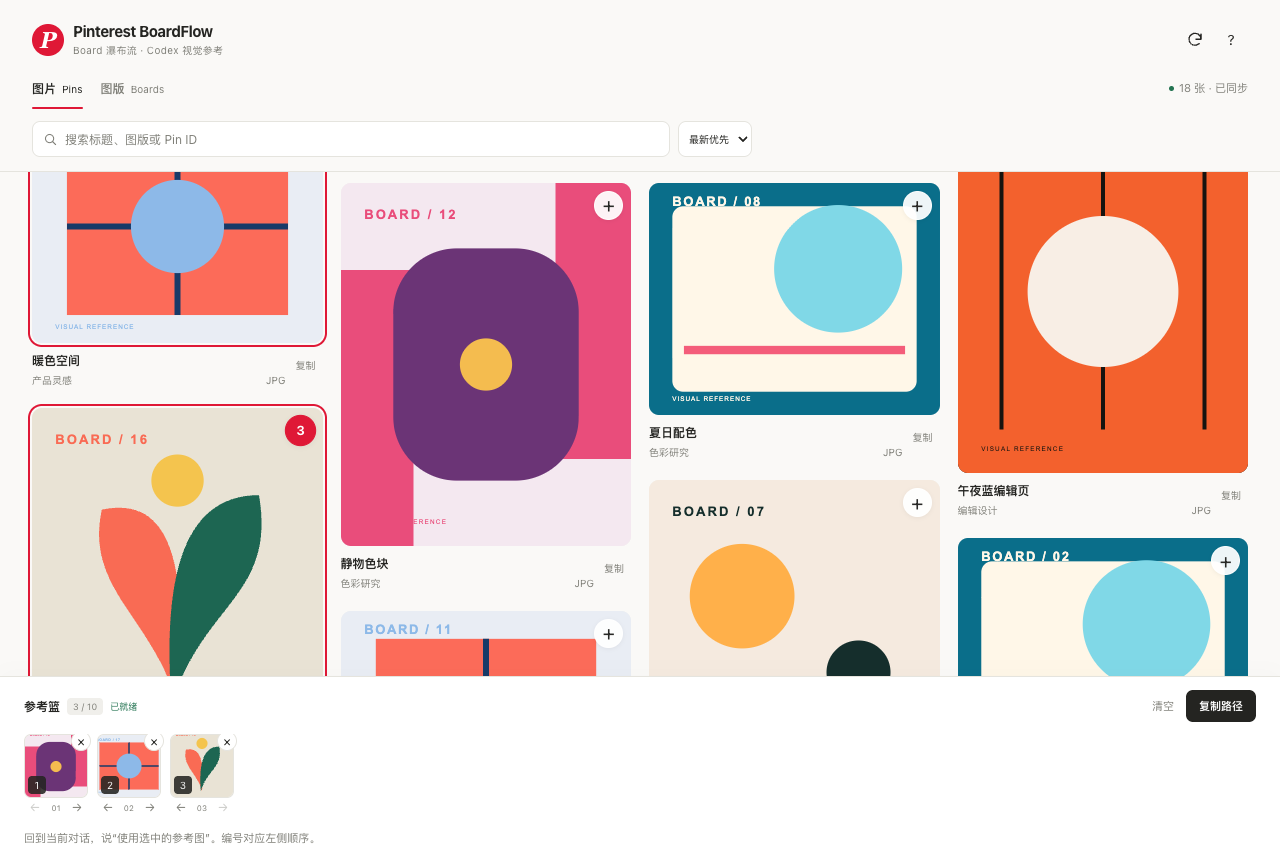
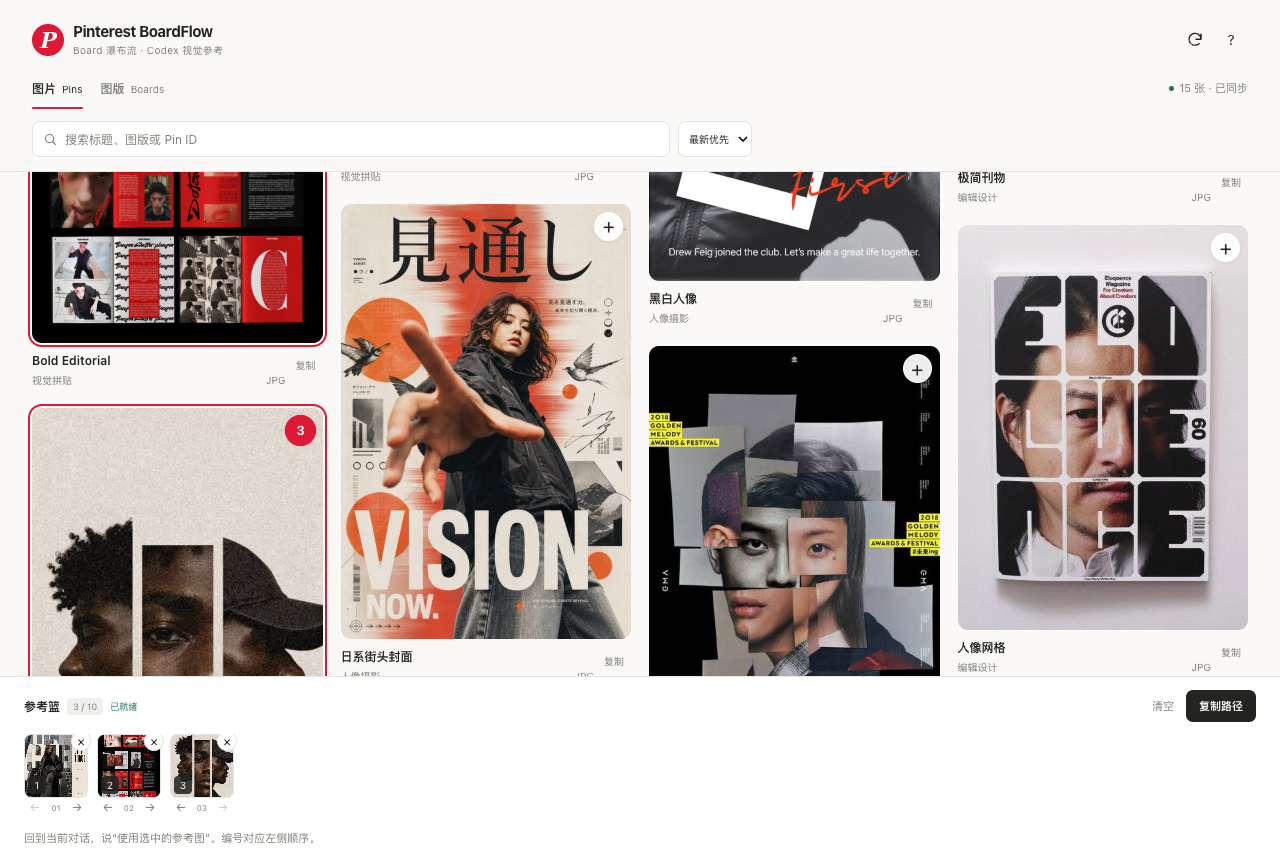
docs: replace mock gallery with real Pinterest capture

diff --git a/LOG.md b/LOG.md
@@ -1,5 +1,14 @@
 # 变更日志
 
+## 2026-09-10 — README 真实 Pinterest 场景替换
+
+- 任务目标：根据公开展示反馈，移除上一版偏合成感的抽象演示素材，改用真实 Pinterest 公开搜索页面与真实公开 Pin 画面，让访问者能直接判断下载器和 BoardFlow 瀑布流的实际使用场景。
+- 修改文件：更新 `README.md`；替换 `docs/images/boardflow-hero.png`、`boardflow-downloader.png`、`boardflow-dashboard.png`、`boardflow-boards.png` 和 `boardflow-preview.png`。`boardflow-downloader-panel.png` 继续使用当前 0.4.3 扩展的实际控制面板截图。
+- 关键决策：Pinterest 场景取自公开关键词搜索结果，浏览器中加载并核对当前 0.4.3 `Pinterest BoardFlow Downloader`，只临时勾选两张公开 Pin，没有触发下载、保存、关注或其他 Pinterest 写操作。提交图遮挡账号入口，不显示用户名、邮箱、私人 Board、个人收藏或本机路径；BoardFlow 本地界面在隔离演示环境中使用同组公开 Pin 画面，不读取用户素材库。README 同时注明第三方缩略图仅用于界面说明、版权归各自权利人所有。
+- 验证结果：使用 Playwright 在真实浏览器视口生成并逐张检查成品 PNG；README 图片引用、PNG 类型/尺寸、可识别文本元数据与 Git 差异检查通过。根 `npm test` 完整通过：Codex 插件 62/62、Chrome 下载器 33/33，共 95/95。
+- 未解决事项：合并后仍需复核 GitHub README 的最终渲染与图片加载；截图固定保留当时的公开搜索结果，不代表 Pinterest 对相关内容的推荐或背书。
+- 回滚提示：回退本条对应提交即可恢复上一组 README 展示图；不影响插件、Chrome 扩展、Pinterest 账号或本地素材库。
+
 ## 2026-09-10 — GitHub README 界面展示图
 
 - 任务目标：为首个公开版的 README 增加更有吸引力的主视觉与功能模块截图，让访问者能快速看懂“Pinterest 下载 → 本地整理 → Board 瀑布流 → Codex 有序参考”的完整流程。

diff --git a/README.md b/README.md
@@ -12,13 +12,13 @@
 
 ## 界面预览
 
-以下截图均来自当前版本的实际界面，使用本地生成的演示素材，**不包含 Pinterest 账号、私人 Board、真实收藏或本机路径**。
+以下截图来自当前版本的实际界面：Pinterest 页面使用真实公开搜索结果，BoardFlow 工作台使用同组公开 Pin 画面在隔离演示环境中呈现。账号入口已遮挡，**不包含用户名、邮箱、私人 Board、个人收藏或本机路径**。截图中的 Pin 缩略图仅用于说明产品界面，版权归各自权利人所有。
 
 ### 在 Pinterest 页面上直接收集
 
 <table>
   <tr>
-    <td width="72%"><img src="docs/images/boardflow-downloader.png" alt="Pinterest BoardFlow 下载器在演示图版上多选图片"></td>
+    <td width="72%"><img src="docs/images/boardflow-downloader.png" alt="Pinterest BoardFlow 下载器在真实 Pinterest 公开搜索页上多选图片"></td>
     <td width="28%"><img src="docs/images/boardflow-downloader-panel.png" alt="Pinterest BoardFlow 下载器控制面板"></td>
   </tr>
   <tr>

diff --git a/LOG-INDEX.md b/LOG-INDEX.md
@@ -2,6 +2,7 @@
 
 | 日期 | 摘要 | 日志位置 | HASH |
 | --- | --- | --- | --- |
+| 2026-09-10 | README 替换为真实 Pinterest 公开场景与 Pin 画面 | `LOG.md#2026-09-10--readme-真实-pinterest-场景替换` | `170f72b299d7` |
 | 2026-09-10 | GitHub README 主视觉与功能模块截图 | `LOG.md#2026-09-10--github-readme-界面展示图` | `c1604d8e87e7` |
 | 2026-09-09 | Pinterest BoardFlow 公开品牌、仓库名与显示名称更新 | `LOG.md#2026-09-09--pinterest-boardflow-公开品牌更新` | `e10f848da725` |
 | 2026-09-09 | 首个公开版本阻断项清理、依赖安全与真实 Chrome/Codex 验收 | `LOG.md#2026-09-09--首个公开版本阻断项清理与真实验收` | `1bf455fdecda` |
